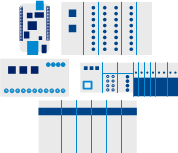
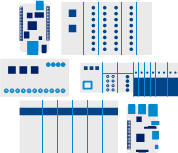
add sub pages for rte,  ide, lib and sys

diff --git a/content/en_ide.html b/content/en_ide.html
@@ -1,0 +1,60 @@
+<!DOCTYPE html>
+<head>
+<meta charset="ANSI">
+<link rel="stylesheet" type="text/css" href="../format.css">
+
+<title>4DIAC-IDE</title>
+</head>
+
+<body>
+<!-- Google Tag Manager -->
+<noscript><iframe src="//www.googletagmanager.com/ns.html?id=GTM-5CMRMZ"
+height="0" width="0" style="display:none;visibility:hidden"></iframe></noscript>
+<script>(function(w,d,s,l,i){w[l]=w[l]||[];w[l].push({'gtm.start':
+new Date().getTime(),event:'gtm.js'});var f=d.getElementsByTagName(s)[0],
+j=d.createElement(s),dl=l!='dataLayer'?'&l='+l:'';j.async=true;j.src=
+'//www.googletagmanager.com/gtm.js?id='+i+dl;f.parentNode.insertBefore(j,f);
+})(window,document,'script','dataLayer','GTM-5CMRMZ');</script>
+<!-- End Google Tag Manager -->
+
+<header>
+	<table>
+		<tr>
+			<td><a href="../index.html"><img src="img/4diac.png" height="80px" style="padding-left:8px"/></a></td>
+			<td><h1 class="cOrange">design once use everywhere</h1></td>
+			<td><h1 class="rDarkBlue">Framework for Industrial <br>Automation & Control</br></h1></td>
+		</tr>
+	</table>
+</header>
+
+<nav>
+	<ul>
+		<li><a href="">Documentation</a></li>
+		<li><a href="">Community</a></li>
+		<li><a href="">Eclipse.org</a></li>
+	</ul>
+</nav>
+
+<section class="ideimage">
+	<h1 class="cOrange">IEC 61499 Compliant Development Environment</br></h1>
+</section>
+
+<section class="news">
+
+</section>
+
+<section class="content">
+
+
+</section>
+
+<footer>
+	<a href="https://www.youtube.com/channel/UCt0MlNo6Y7dXCZSDACXFi1g"><img src="img/youTube/red/24px/YouTube-social-circle_red_24px.png"/></a>
+	<a href=""><img src="img/twitter/TwitterLogo_white.png"/ height="24px" style="background-color:black; border-radius:3px;"/></a>
+	<a href="https://plus.google.com/communities/101972285570306852659"><img src="img/gprofile_button-64.png"/ height="24px"/></a>
+	<a href="https://www.linkedin.com/grp/home?gid=6949091"><img src="img/linkedin/Black/In-Black-21px-TM.png" height="24px"></a>
+</footer>
+
+</body>
+
+</html> 

diff --git a/content/en_lib.html b/content/en_lib.html
@@ -1,0 +1,59 @@
+<!DOCTYPE html>
+<head>
+<meta charset="ANSI">
+<link rel="stylesheet" type="text/css" href="../format.css">
+
+<title>4DIAC-LIB</title>
+</head>
+
+<body>
+<!-- Google Tag Manager -->
+<noscript><iframe src="//www.googletagmanager.com/ns.html?id=GTM-5CMRMZ"
+height="0" width="0" style="display:none;visibility:hidden"></iframe></noscript>
+<script>(function(w,d,s,l,i){w[l]=w[l]||[];w[l].push({'gtm.start':
+new Date().getTime(),event:'gtm.js'});var f=d.getElementsByTagName(s)[0],
+j=d.createElement(s),dl=l!='dataLayer'?'&l='+l:'';j.async=true;j.src=
+'//www.googletagmanager.com/gtm.js?id='+i+dl;f.parentNode.insertBefore(j,f);
+})(window,document,'script','dataLayer','GTM-5CMRMZ');</script>
+<!-- End Google Tag Manager -->
+
+<header>
+	<table>
+		<tr>
+			<td><a href="../index.html"><img src="img/4diac.png" height="80px" style="padding-left:8px"/></a></td>
+			<td><h1 class="cOrange">design once use everywhere</h1></td>
+			<td><h1 class="rDarkBlue">Framework for Industrial <br>Automation & Control</br></h1></td>
+		</tr>
+	</table>
+</header>
+
+<nav>
+	<ul>
+		<li><a href="">Documentation</a></li>
+		<li><a href="">Community</a></li>
+		<li><a href="">Eclipse.org</a></li>
+	</ul>
+</nav>
+
+<section class="libimage">
+	<h1 class="cOrange">IEC 61499 Function Block Library</br></h1>
+</section>
+
+<section class="news">
+
+</section>
+
+<section class="content">
+
+</section>
+
+<footer>
+	<a href="https://www.youtube.com/channel/UCt0MlNo6Y7dXCZSDACXFi1g"><img src="img/youTube/red/24px/YouTube-social-circle_red_24px.png"/></a>
+	<a href=""><img src="img/twitter/TwitterLogo_white.png"/ height="24px" style="background-color:black; border-radius:3px;"/></a>
+	<a href="https://plus.google.com/communities/101972285570306852659"><img src="img/gprofile_button-64.png"/ height="24px"/></a>
+	<a href="https://www.linkedin.com/grp/home?gid=6949091"><img src="img/linkedin/Black/In-Black-21px-TM.png" height="24px"></a>
+</footer>
+
+</body>
+
+</html> 

diff --git a/content/en_rte.html b/content/en_rte.html
@@ -1,0 +1,60 @@
+<!DOCTYPE html>
+<head>
+<meta charset="ANSI">
+<link rel="stylesheet" type="text/css" href="../format.css">
+
+<title>4DIAC-RTE</title>
+</head>
+
+<body>
+<!-- Google Tag Manager -->
+<noscript><iframe src="//www.googletagmanager.com/ns.html?id=GTM-5CMRMZ"
+height="0" width="0" style="display:none;visibility:hidden"></iframe></noscript>
+<script>(function(w,d,s,l,i){w[l]=w[l]||[];w[l].push({'gtm.start':
+new Date().getTime(),event:'gtm.js'});var f=d.getElementsByTagName(s)[0],
+j=d.createElement(s),dl=l!='dataLayer'?'&l='+l:'';j.async=true;j.src=
+'//www.googletagmanager.com/gtm.js?id='+i+dl;f.parentNode.insertBefore(j,f);
+})(window,document,'script','dataLayer','GTM-5CMRMZ');</script>
+<!-- End Google Tag Manager -->
+
+<header>
+	<table>
+		<tr>
+			<td><a href="../index.html"><img src="img/4diac.png" height="80px" style="padding-left:8px"/></a></td>
+			<td><h1 class="cOrange">design once use everywhere</h1></td>
+			<td><h1 class="rDarkBlue">Framework for Industrial <br>Automation & Control</br></h1></td>
+		</tr>
+	</table>
+</header>
+
+<nav>
+	<ul>
+		<li><a href="">Documentation</a></li>
+		<li><a href="">Community</a></li>
+		<li><a href="">Eclipse.org</a></li>
+	</ul>
+</nav>
+
+<section class="rteimage">
+	<h1 class="cOrange">IEC 61499 Runtime Environment</br></h1>
+</section>
+
+<section class="news">
+	
+</section>
+
+<section class="content">
+
+
+</section>
+
+<footer>
+	<a href="https://www.youtube.com/channel/UCt0MlNo6Y7dXCZSDACXFi1g"><img src="img/youTube/red/24px/YouTube-social-circle_red_24px.png"/></a>
+	<a href=""><img src="img/twitter/TwitterLogo_white.png"/ height="24px" style="background-color:black; border-radius:3px;"/></a>
+	<a href="https://plus.google.com/communities/101972285570306852659"><img src="img/gprofile_button-64.png"/ height="24px"/></a>
+	<a href="https://www.linkedin.com/grp/home?gid=6949091"><img src="img/linkedin/Black/In-Black-21px-TM.png" height="24px"></a>
+</footer>
+
+</body>
+
+</html> 

diff --git a/content/en_sys.html b/content/en_sys.html
@@ -1,0 +1,59 @@
+<!DOCTYPE html>
+<head>
+<meta charset="ANSI">
+<link rel="stylesheet" type="text/css" href="../format.css">
+
+<title>4DIAC-SYS</title>
+</head>
+
+<body>
+<!-- Google Tag Manager -->
+<noscript><iframe src="//www.googletagmanager.com/ns.html?id=GTM-5CMRMZ"
+height="0" width="0" style="display:none;visibility:hidden"></iframe></noscript>
+<script>(function(w,d,s,l,i){w[l]=w[l]||[];w[l].push({'gtm.start':
+new Date().getTime(),event:'gtm.js'});var f=d.getElementsByTagName(s)[0],
+j=d.createElement(s),dl=l!='dataLayer'?'&l='+l:'';j.async=true;j.src=
+'//www.googletagmanager.com/gtm.js?id='+i+dl;f.parentNode.insertBefore(j,f);
+})(window,document,'script','dataLayer','GTM-5CMRMZ');</script>
+<!-- End Google Tag Manager -->
+
+<header>
+	<table>
+		<tr>
+			<td><a href="../index.html"><img src="img/4diac.png" height="80px" style="padding-left:8px"/></a></td>
+			<td><h1 class="cOrange">design once use everywhere</h1></td>
+			<td><h1 class="rDarkBlue">Framework for Industrial <br>Automation & Control</br></h1></td>
+		</tr>
+	</table>
+</header>
+
+<nav>
+	<ul>
+		<li><a href="">Documentation</a></li>
+		<li><a href="">Community</a></li>
+		<li><a href="">Eclipse.org</a></li>
+	</ul>
+</nav>
+
+<section class="sysimage">
+	<h1 class="cOrange">IEC 61499 Example Projects</br></h1>
+</section>
+
+<section class="news">
+
+</section>
+
+<section class="content">
+
+</section>
+
+<footer>
+	<a href="https://www.youtube.com/channel/UCt0MlNo6Y7dXCZSDACXFi1g"><img src="img/youTube/red/24px/YouTube-social-circle_red_24px.png"/></a>
+	<a href=""><img src="img/twitter/TwitterLogo_white.png"/ height="24px" style="background-color:black; border-radius:3px;"/></a>
+	<a href="https://plus.google.com/communities/101972285570306852659"><img src="img/gprofile_button-64.png"/ height="24px"/></a>
+	<a href="https://www.linkedin.com/grp/home?gid=6949091"><img src="img/linkedin/Black/In-Black-21px-TM.png" height="24px"></a>
+</footer>
+
+</body>
+
+</html> 

diff --git a/format.css b/format.css
@@ -79,6 +79,42 @@ height:240px;
 margin-top:20px;
 margin-bottom:20px;
 }
+
+section.rteimage {
+background-image:url("content/img/rte.png");
+background-repeat:no-repeat;
+background-position: center bottom; 
+height:180px;
+margin-top:20px;
+margin-bottom:20px;
+}
+
+section.ideimage {
+background-image:url("content/img/ide.png");
+background-repeat:no-repeat;
+background-position: center bottom; 
+height:220px;
+margin-top:20px;
+margin-bottom:20px;
+}
+ 
+section.libimage {
+background-image:url("content/img/lib.png");
+background-repeat:no-repeat;
+background-position: center bottom; 
+height:130px;
+margin-top:20px;
+margin-bottom:20px;
+} 
+ 
+section.sysimage {
+background-image:url("content/img/sys.png");
+background-repeat:no-repeat;
+background-position: center bottom; 
+height:140px;
+margin-top:20px;
+margin-bottom:20px;
+} 
  
 section.news{
 background-color:rgba(221,221,221,1.0); 
@@ -169,7 +205,7 @@ text-align:center;
 section.content a{
 width:4cm; 
 height:4cm;
-margin:20px;
+margin:20px 20px 0px 20px;
 padding:20px;
 display:inline-block;
 font-weight:bold;
@@ -188,6 +224,10 @@ section.content a:hover, a:active{
 background-color:rgba(0,137,209,1.0);
 color:rgba(221,221,221,1.0);
 border:1mm solid rgba(221,221,221,1.0);
+}
+
+section.content ul{
+list-style-type:square;
 }
 
 footer{

diff --git a/index.html b/index.html
@@ -64,14 +64,14 @@ ctx.fill();
 </section>
 
 <section class="content">
-	<a href="">RTE
+	<a href="content/en_rte.html">RTE
 		<img height="100px" src="content/img/rte-button.png"/></a>
-	<a href="">IDE
-		<img height="100px" src="content/img/ide-button.png"/></a> 
-	<a href="">LIB
+	<a href="content/en_ide.html">IDE
+		<img height="100px" src="content/img/ide-button.png"/></a>
+	<a href="content/en_lib.html">LIB
 		<img height="100px" src="content/img/lib-button.png"/></a>
-	<a href="">SYS
-		<img height="100px" src="content/img/sys-button.png"/></a>	
+	<a href="content/en_sys.html">SYS
+		<img height="100px" src="content/img/sys-button.png"/></a>
 </section>
 
 <footer>
